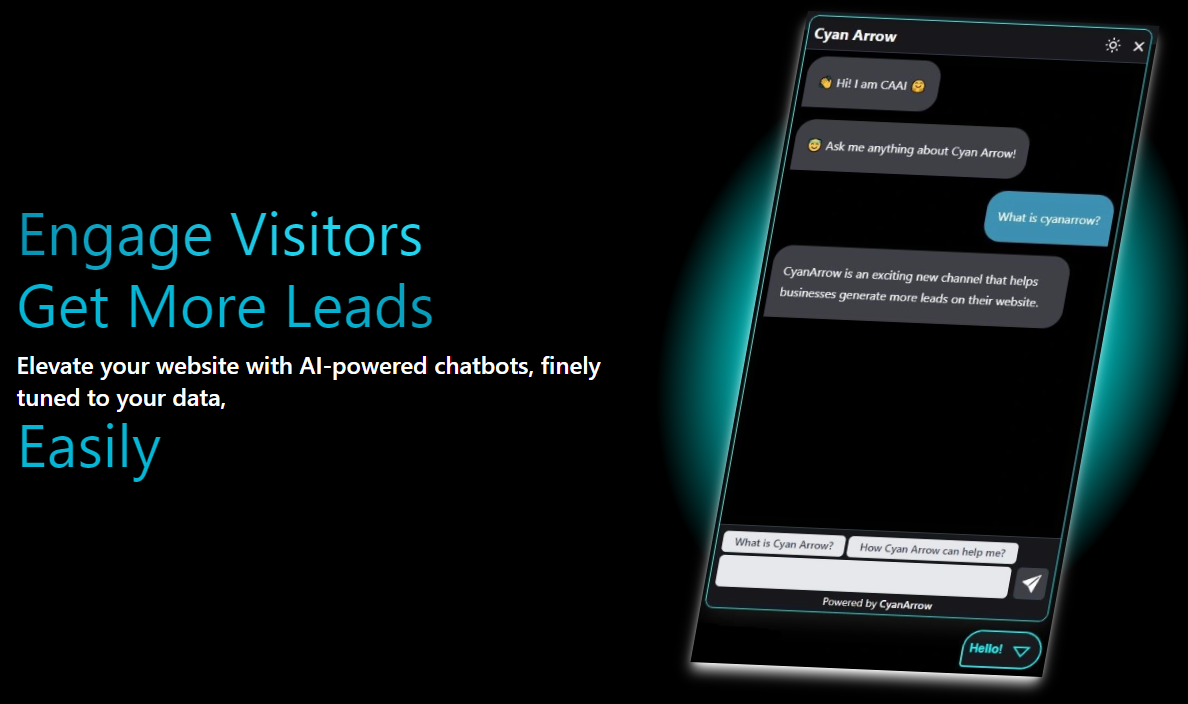
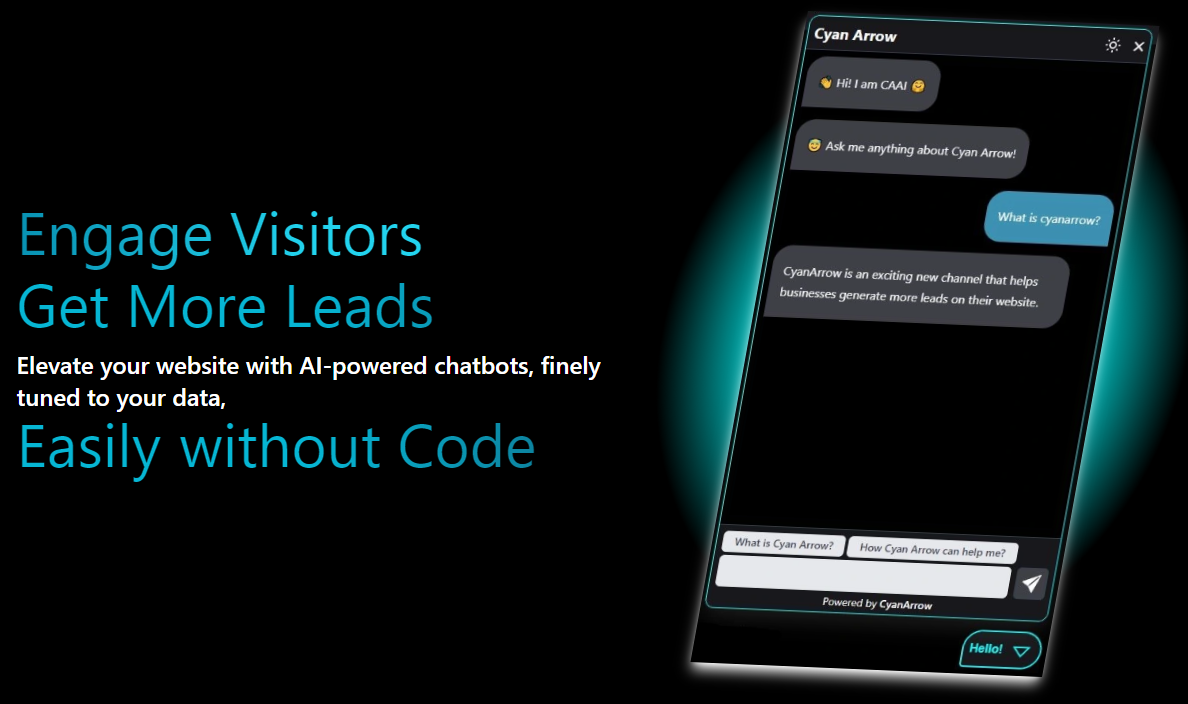
some changes to hero and layouts

Changed region(s): [[0.1557, 0.5938, 0.4672, 0.6875]]

diff --git a/app/(landing)/hero.tsx b/app/(landing)/hero.tsx
@@ -11,6 +11,10 @@ import Link from "next/link";
 export default function Hero({session}: any) {
     const { push } = useRouter();
     const stage = process.env.NEXT_PUBLIC_DEV_STAGE;
+    const checksvg = <svg className="h-6 w-6 flex-none  stroke-[#00ffff] stroke-2" strokeLinecap="round" strokeLinejoin="round">
+        {/* <circle cx="12" cy="12" r="11" /> */}
+        <path d="m8 13 2.165 2.165a1 1 0 0 0 1.521-.126L16 9" fill="none" />
+    </svg>
 
     function signIn() {
         if(stage != "cs") push("/signin");
@@ -51,11 +55,23 @@ export default function Hero({session}: any) {
                         Elevate your website with AI-powered chatbots, finely tuned to your data,
                     </div>
                     <div className="w-full text-transparent bg-clip-text bg-gradient-to-r to-cyan-700 via-cyan-500 from-cyan-500 pb-3 ">
-                        Easily
+                        Easily without Code
                     </div>
-                    {/* <div className="w-full mt-1 text-lg font-semibold text-white sm:text-2xl">
-                        Learn More here
-                    </div> */}
+                    <div className="relative flex max-w-[80rem] mt-2 w-full px-4 flex-col mx-auto gap-1  items-center ">
+                        {session?
+                        <Button variant="slim" type="button" onClick={() => push('/pricing')}
+                        className="block w-full !py-2 lg:!py-4 !rounded-full text-xl lg:text-3xl font-semibold text-center !leading-tight text-white bg-gradient-to-r from-cyan-600 via-cyan-400 to-cyan-300 hover:!bg-zinc-900" >
+                            {stage == "cs"?"Coming Soon!":"Subscribe Now!"}
+                        </Button>:
+                        <Button variant="slim" type="button" onClick={() => signIn()}
+                        className="block w-full !py-2 lg:!py-4 !rounded-full text-xl lg:text-3xl font-semibold text-center !leading-tight text-white bg-gradient-to-r from-cyan-600 via-cyan-400 to-cyan-300 hover:!bg-zinc-900" >
+                            {stage == "cs"?"Coming Soon!":"Sign up free"}
+                        </Button>}
+                        <div className="flex justify-center lg:gap-8 gap-4 w-full text-sm lg:text-lg items-center">
+                            <div className=" flex gap-2 items-center justify-center ">{checksvg} <>Free 7-day trial!</></div>
+                            <div className=" flex gap-2 items-center justify-center ">{checksvg} <>No credit card required</></div>
+                        </div>
+                    </div>
                 </div>
                 <div className=" flex w-full sm:w-[50%] mt-1 font-semibold text-white sm:text-2xl justify-center items-center rounded-full " style={{transform: "rotate3d(-1, 1, 0.3, 30deg)", background: "radial-gradient(transparent, #00ffff, transparent, transparent)"}}>{/**"conic-gradient(cyan,blue,purple)" */}
                     <img src="/lib/image/home/opening2.webp" alt="Opening" className=" shadow-lg shadow-white antialiased h-[400px] sm:h-[700px]"/>
@@ -103,16 +119,20 @@ export default function Hero({session}: any) {
                 </div>
             </div>
             
-            <div className="relative flex max-w-[80rem] w-full px-4 flex-col-reverse md:flex-row mx-auto gap-4 py-10 sm:px-6 lg:px-8 items-center justify-center sm:mt-0">
+            <div className="relative flex max-w-[80rem] w-full px-4 flex-col mx-auto gap-4 py-10 sm:px-6 lg:px-8 items-center justify-center sm:mt-0">
                 {session?
                 <Button variant="slim" type="button" onClick={() => push('/pricing')}
-                className="block w-full !py-4 !rounded-full mt-8 text-3xl font-semibold text-center !leading-tight text-white bg-gradient-to-r from-cyan-600 via-cyan-400 to-cyan-300 hover:!bg-zinc-900" >
-                    {stage == "cs"?"Coming Soon!":"Subscribe Now! No CC required"}
+                className="block w-full !py-2 lg:!py-4 !rounded-full text-xl lg:text-3xl font-semibold text-center !leading-tight text-white bg-gradient-to-r from-cyan-600 via-cyan-400 to-cyan-300 hover:!bg-zinc-900" >
+                    {stage == "cs"?"Coming Soon!":"Subscribe Now!"}
                 </Button>:
                 <Button variant="slim" type="button" onClick={() => signIn()}
-                className="block w-full !py-4 !rounded-full mt-8 text-3xl font-semibold text-center !leading-tight text-white bg-gradient-to-r from-cyan-600 via-cyan-400 to-cyan-300 hover:!bg-zinc-900" >
-                    {stage == "cs"?"Coming Soon!":"Start your 7 days free trial! No CC required"}
+                className="block w-full !py-2 lg:!py-4 !rounded-full text-xl lg:text-3xl font-semibold text-center !leading-tight text-white bg-gradient-to-r from-cyan-600 via-cyan-400 to-cyan-300 hover:!bg-zinc-900" >
+                    {stage == "cs"?"Coming Soon!":"Sign up free"}
                 </Button>}
+                <div className="flex justify-center lg:gap-8 gap-4 w-full text-sm lg:text-lg items-center">
+                    <div className=" flex gap-2 items-center justify-center ">{checksvg} <>Free 7-day trial!</></div>
+                    <div className=" flex gap-2 items-center justify-center ">{checksvg} <>No credit card required</></div>
+                </div>
             </div>
         </section>
         {/**Features */}
@@ -152,16 +172,20 @@ export default function Hero({session}: any) {
                 </div>
             </div>
 
-            <div className="relative flex max-w-[80rem] w-full px-4 flex-col-reverse md:flex-row mx-auto gap-4 pb-10 sm:px-6 lg:px-8 items-center justify-center sm:mt-0">
+            <div className="relative flex max-w-[80rem] w-full px-4 flex-col mx-auto gap-4 pb-10 sm:px-6 lg:px-8 items-center justify-center sm:mt-0">
                 {session?
                 <Button variant="slim" type="button" onClick={() => push('/pricing')}
-                className="block w-full !py-4 !rounded-full mt-8 text-3xl font-semibold text-center !leading-tight text-white bg-gradient-to-r from-cyan-600 via-cyan-400 to-cyan-300 hover:!bg-zinc-900" >
-                    {stage == "cs"?"Coming Soon!":"Subscribe Now! No CC required"}
+                className="block w-full !py-2 lg:!py-4 !rounded-full text-xl lg:text-3xl font-semibold text-center !leading-tight text-white bg-gradient-to-r from-cyan-600 via-cyan-400 to-cyan-300 hover:!bg-zinc-900" >
+                    {stage == "cs"?"Coming Soon!":"Subscribe Now!"}
                 </Button>:
                 <Button variant="slim" type="button" onClick={() => signIn()}
-                className="block w-full !py-4 !rounded-full mt-8 text-3xl font-semibold text-center !leading-tight text-white bg-gradient-to-r from-cyan-600 via-cyan-400 to-cyan-300 hover:!bg-zinc-900" >
-                    {stage == "cs"?"Coming Soon!":"Start your 7 days free trial! No CC required"}
+                className="block w-full !py-2 lg:!py-4 !rounded-full text-xl lg:text-3xl font-semibold text-center !leading-tight text-white bg-gradient-to-r from-cyan-600 via-cyan-400 to-cyan-300 hover:!bg-zinc-900" >
+                    {stage == "cs"?"Coming Soon!":"Sign up free"}
                 </Button>}
+                <div className="flex justify-center lg:gap-8 gap-4 w-full text-sm lg:text-lg items-center">
+                    <div className=" flex gap-2 items-center justify-center ">{checksvg} <>Free 7-day trial!</></div>
+                    <div className=" flex gap-2 items-center justify-center ">{checksvg} <>No credit card required</></div>
+                </div>
             </div>
         </section>
         {/**FAQs */}
@@ -249,16 +273,20 @@ export default function Hero({session}: any) {
                 </div>
             </div>
 
-            <div className="relative flex max-w-[80rem] w-full px-4 flex-col-reverse md:flex-row mx-auto gap-4 py-10 sm:px-6 lg:px-8 items-center justify-center sm:mt-0">
+            <div className="relative flex max-w-[80rem] w-full px-4 flex-col mx-auto gap-4 py-10 sm:px-6 lg:px-8 items-center justify-center sm:mt-0">
                 {session?
                 <Button variant="slim" type="button" onClick={() => push('/pricing')}
-                className="block w-full !py-4 !rounded-full mt-8 text-3xl font-semibold text-center !leading-tight text-white bg-gradient-to-r from-cyan-600 via-cyan-400 to-cyan-300 hover:!bg-zinc-900" >
-                    {stage == "cs"?"Coming Soon!":"Subscribe Now! No CC required"}
+                className="block w-full !py-2 lg:!py-4 !rounded-full text-xl lg:text-3xl font-semibold text-center !leading-tight text-white bg-gradient-to-r from-cyan-600 via-cyan-400 to-cyan-300 hover:!bg-zinc-900" >
+                    {stage == "cs"?"Coming Soon!":"Subscribe Now!"}
                 </Button>:
                 <Button variant="slim" type="button" onClick={() => signIn()}
-                className="block w-full !py-4 !rounded-full mt-8 text-3xl font-semibold text-center !leading-tight text-white bg-gradient-to-r from-cyan-600 via-cyan-400 to-cyan-300 hover:!bg-zinc-900" >
-                    {stage == "cs"?"Coming Soon!":"Start your 7 days free trial! No CC required"}
+                className="block w-full !py-2 lg:!py-4 !rounded-full text-xl lg:text-3xl font-semibold text-center !leading-tight text-white bg-gradient-to-r from-cyan-600 via-cyan-400 to-cyan-300 hover:!bg-zinc-900" >
+                    {stage == "cs"?"Coming Soon!":"Sign up free"}
                 </Button>}
+                <div className="flex justify-center lg:gap-8 gap-4 w-full text-sm lg:text-lg items-center">
+                    <div className=" flex gap-2 items-center justify-center ">{checksvg} <>Free 7-day trial!</></div>
+                    <div className=" flex gap-2 items-center justify-center ">{checksvg} <>No credit card required</></div>
+                </div>
             </div>
         </section>
         

diff --git a/app/docs/start/chatbotguide.tsx b/app/docs/start/chatbotguide.tsx
@@ -2,6 +2,7 @@
 
 import { useRef } from "react";
 import ReactPlayer from "react-player/lazy";
+// import YouTubePlayer from "react-player/youtube";
 
 export default function ChatbotGuide() {
     const createref = useRef<HTMLDivElement>(null);
@@ -47,7 +48,9 @@ export default function ChatbotGuide() {
                 </h2>
             </div>
             <div className=" mt-1 text-lg text-white sm:text-2xl" suppressHydrationWarning={true} >
-                <ReactPlayer url="/lib/vids/CA-Appearance1.mp4" loop={true} controls={true} width="100%" height="auto" wrapper={undefined} suppressHydrationWarning={true} style={{border: "1px solid #00ffff"}}/>
+                {/* <ReactPlayer url="/lib/vids/CA-Appearance1.mp4" loop={true} controls={true} width="100%" height="auto" wrapper={undefined} suppressHydrationWarning={true} style={{border: "1px solid #00ffff"}}/> */}
+                <ReactPlayer url="https://youtu.be/geRmockFCtg" loop={true} controls={true} width="auto" wrapper={undefined} suppressHydrationWarning={true} style={{border: "1px solid #00ffff"}}/>
+                
                 <h3 className=" p-2 sm:text-3xl text-xl ">You can change following attributes of the chatbot's appearance to match the style of your website</h3>
                 <h4 className=" p-2 pb-0 font-bold text-cyan-600 ">Name</h4>
                 <p className=" px-2 pb-2 ">You can change the display name of the chatbot.</p>
@@ -73,7 +76,8 @@ export default function ChatbotGuide() {
                 </h2>
             </div>
             <div className=" mt-1 text-lg text-white sm:text-2xl" suppressHydrationWarning={true} >
-                <ReactPlayer url="/lib/vids/CA-Datasource.mp4" loop={true} controls={true} width="100%" height="auto" wrapper={undefined} suppressHydrationWarning={true} style={{border: "1px solid #00ffff"}}/>
+                {/* <ReactPlayer url="/lib/vids/CA-Datasource.mp4" loop={true} controls={true} width="100%" height="auto" wrapper={undefined} suppressHydrationWarning={true} style={{border: "1px solid #00ffff"}}/> */}
+                <ReactPlayer url="https://youtu.be/geRmockFCtg" loop={true} controls={true} width="auto" wrapper={undefined} suppressHydrationWarning={true} style={{border: "1px solid #00ffff"}}/>
                 <h3 className=" p-2 sm:text-3xl text-xl ">This is the data that chatbot will use to respond to the visitor's queries.</h3>
                 <p className=" px-2 pb-2 ">This is heart of your chabot. <i>Quality of data uploaded as data source will directly impact the accuracy of the chatbot responses.</i></p>
                 <p className=" px-2 pb-2 ">You can upload data sources using following options:</p>

diff --git a/app/chatbots/layout.tsx b/app/chatbots/layout.tsx
@@ -77,7 +77,7 @@ export default function RootLayout({
           <Navbar currentPath='/chatbots'/>
           <main
             id="skip"
-            className="min-h-[calc(100dvh-4rem)] md:min-h[calc(100dvh-5rem)] px-4"
+            className="min-h-[calc(100dvh-4rem)] md:min-h[calc(100dvh-5rem)] px-4 overflow-x-auto "
           >
           {/* <div className="absolute inset-0 bg-[url(/lib/image/grid.svg)] bg-center [mask-image:linear-gradient(180deg,white,rgba(255,255,255,0))]"></div> */}
             {children}

diff --git a/app/conversations/layout.tsx b/app/conversations/layout.tsx
@@ -78,7 +78,7 @@ export default function RootLayout({
           <Navbar currentPath='/conversations'/>
           <main
             id="skip"
-            className="min-h-[calc(100dvh-4rem)] md:min-h[calc(100dvh-5rem)] px-4"
+            className="min-h-[calc(100dvh-4rem)] md:min-h[calc(100dvh-5rem)] px-4 overflow-x-auto "
           >
             {children}
           </main>

diff --git a/app/leads/layout.tsx b/app/leads/layout.tsx
@@ -78,7 +78,7 @@ export default function RootLayout({
           <Navbar currentPath='/leads'/>
           <main
             id="skip"
-            className="min-h-[calc(100dvh-4rem)] md:min-h[calc(100dvh-5rem)] px-4"
+            className="min-h-[calc(100dvh-4rem)] md:min-h[calc(100dvh-5rem)] px-4 overflow-x-auto "
           >
             {children}
           </main>
